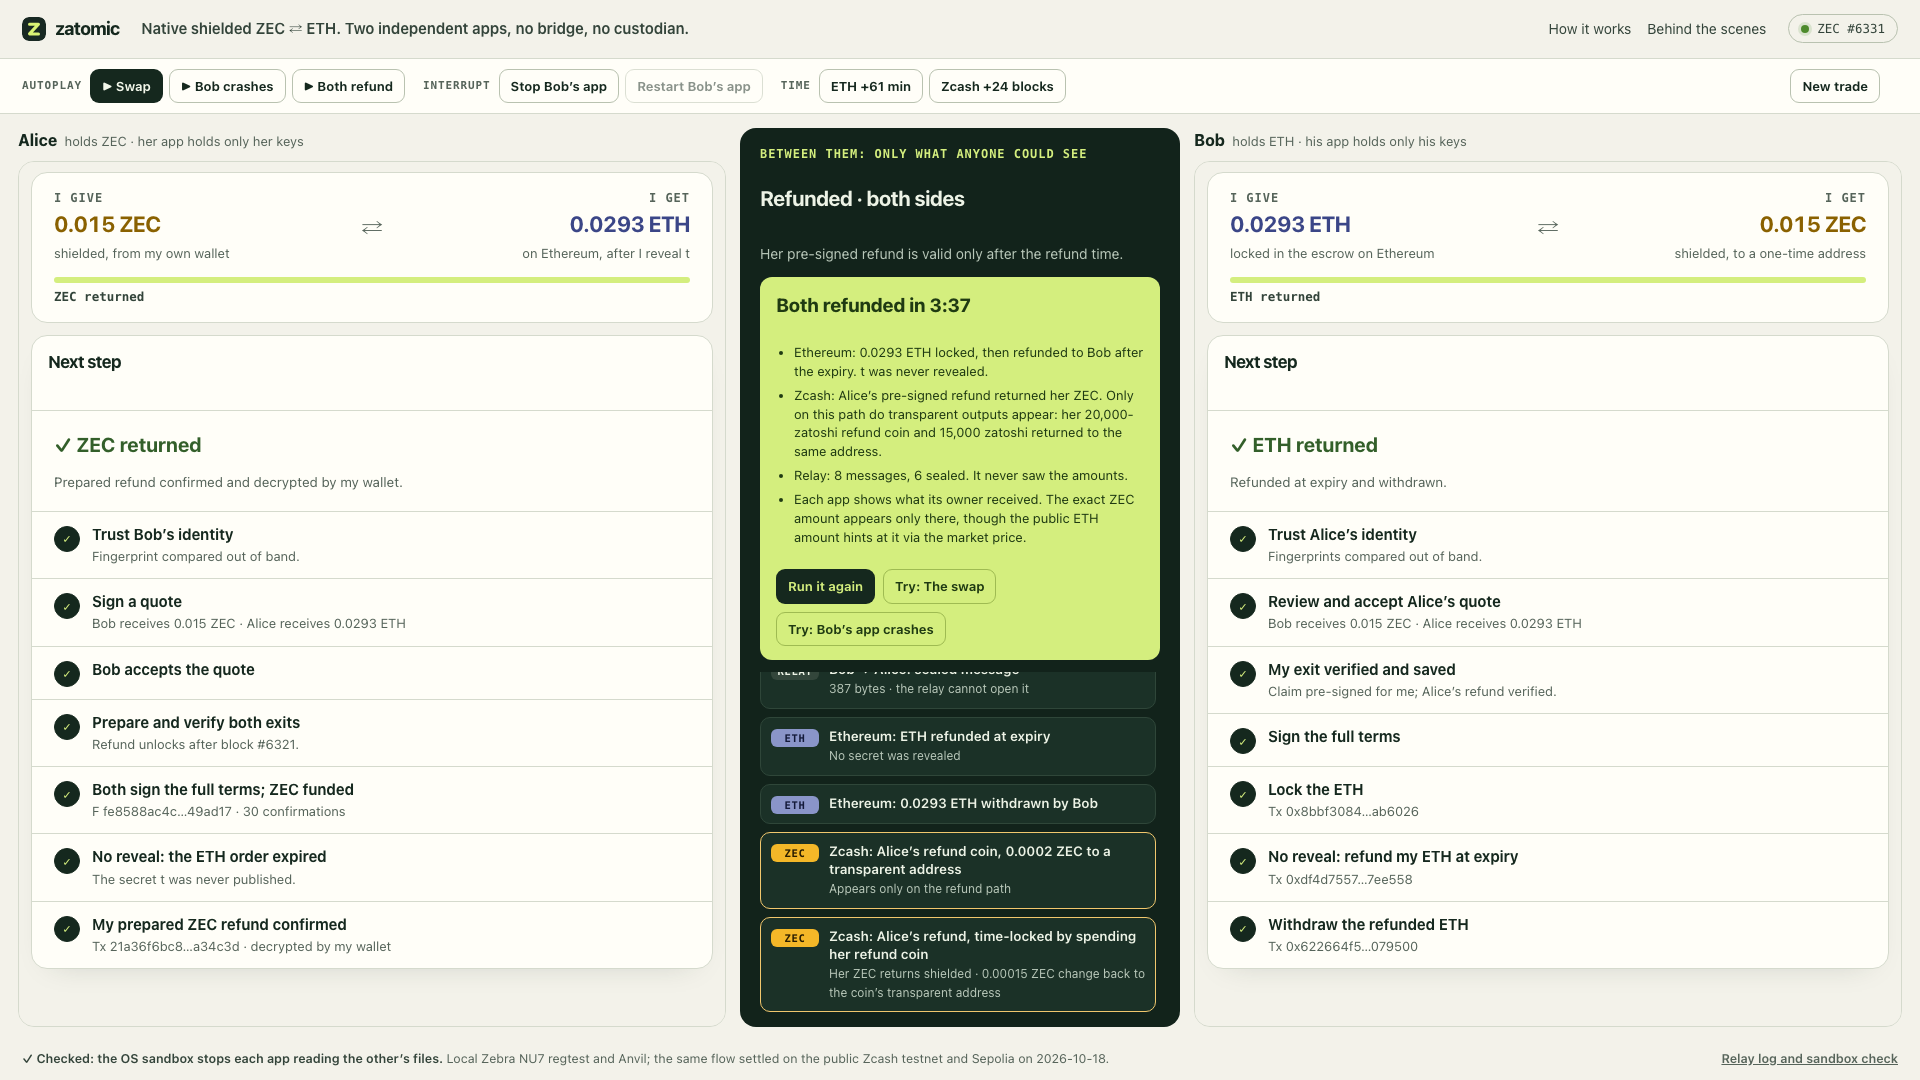
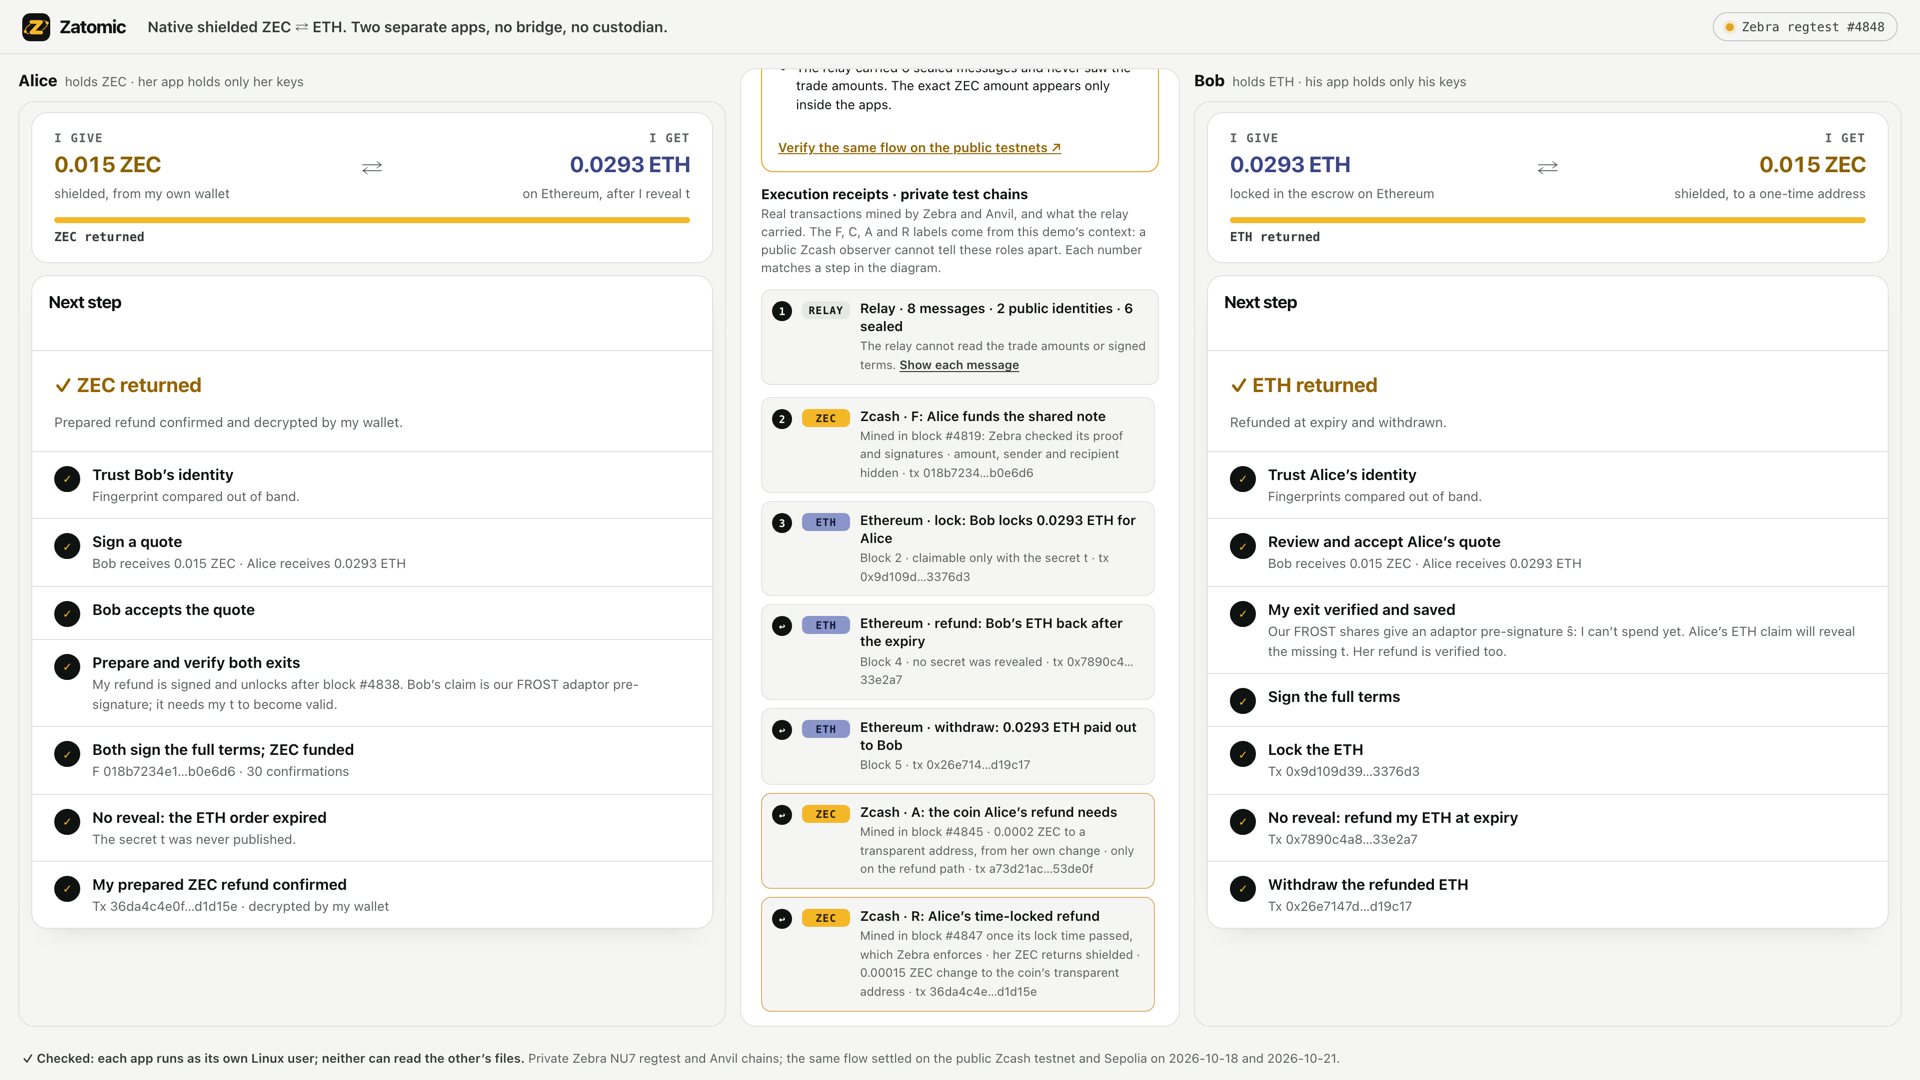
Demo guide: current screenshots and wording for scenarios, receipts and manual controls

Changed region(s): [[0.0, 0.0, 1.0, 1.0], [0.625, 0.0611, 0.75, 0.0917], [0.9062, 0.9778, 1.0, 1.0]]

diff --git a/docs/demo.md b/docs/demo.md
@@ -68,8 +68,8 @@ through the apps' own page endpoints, never touching either app's keys:
 While a scenario runs, the column shows its clock and the five-step diagram
 from the landing page, lit from public events only: done, under way, still to
 come, or the branch this trade did not take; Bob's lane says "stopped" while his
-app is down. Below it, **Public receipts** list what the relay and both chains
-recorded, each numbered with its diagram step: the relay's messages fold into
+app is down. Below it, **Execution receipts · private test chains** list what the
+relay and both chains recorded, each numbered with its diagram step: the relay's messages fold into
 one row (open it to see each), and every Zcash and Ethereum entry gives its
 block, what the node checked and its transaction ID. They follow protocol order,
 since observation times on two chains do not order them reliably. At the end
@@ -93,12 +93,13 @@ Measured on an Apple M1 with 16 GiB, each from a fresh trade: the swap took
 For recording, open **/stage?record**. It hides the control bar and page links,
 enlarges the narration, and is driven by keys: `1` `2` `3` scenarios, `N` new
 trade, `S` / `R` stop and restart Bob's app, `E` ETH time, `Z` Zcash blocks. The
-same keys work on the normal stage. The layout fits 1920×1080 and 1280×720
-without scrolling.
+same keys work on the normal stage. The layout fits 1920×1080 and 1280×720: the
+middle column scrolls to each new receipt by itself, and a finished run ends on
+the **Last run** card instead of the scenario picker.
 
 To run this on a rented server, see [Host it on a server](#host-it-on-a-server):
-each app then runs as its own Linux user, and one visitor at a time holds the
-controls.
+each app then runs as its own Linux user, any visitor can start a scenario while
+none is running, and operating the apps by hand goes to one visitor at a time.
 
 Autoplay types the agreed amounts and accepts the fingerprints shown on screen.
 The amounts are 0.015 ZEC for 0.0293 ETH, or proportionally smaller once the
@@ -128,16 +129,17 @@ they already trust.
 
 Scenarios 2 and 3 on the stage do both of these by themselves. By hand:
 
-- **Crash after the reveal.** After Alice claims, click *Stop Bob's app* on the
-  stage (or *Kill app (SIGKILL)* on the network page), then *Restart*. Bob's app rebuilds its state from its
+- **Crash after the reveal.** After Alice claims, open *Advanced controls* on the
+  stage and click *Stop Bob's app* (or *Kill app (SIGKILL)* on the network page),
+  then *Restart*. Bob's app rebuilds its state from its
   own files and the chains, and offers *Claim my ZEC* again. Alice can withdraw
   meanwhile; she never needs Bob online.
-- **No reveal.** Let Bob lock and Alice not claim. *ETH +61 min* stands in for
-  waiting. Bob refunds and withdraws. *Zcash +24
+- **No reveal.** Let Bob lock and Alice not claim. *ETH +61 min* (under
+  *Advanced controls*) stands in for waiting. Bob refunds and withdraws. *Zcash +24
   blocks* passes the native refund height, and Alice's prepared refund
   returns her ZEC.
 
-![Both refunded: Bob's ETH returned, Alice's ZEC returned, and the two transparent outputs the refund path adds](images/stage-refund.png)
+![Both refunded: Bob's ETH and Alice's ZEC returned, and the receipts show the refund path's coin A and her time-locked refund R](images/stage-refund.png)
 
 ## What this does and does not show
 
@@ -262,7 +264,7 @@ The apps' stdout and stderr go to `/var/lib/latch/net/<trade>/network/`.
 | App separation | a macOS `sandbox-exec` policy per app | a Unix user per app; the network cannot read either |
 | Zcash node | Zebra in Docker | `zebrad` as its own service; no Docker |
 | Reach | loopback only | HTTPS through Caddy; the servers still bind loopback and check Host and Origin |
-| Controls | anyone on the machine | one visitor at a time |
+| Controls | anyone on the machine | one scenario at a time for everyone; manual controls for one visitor at a time |
 
 **Not claimed:** all three roles run on one machine run by one operator. This is
 not independent administration, and the network process can start or stop

diff --git a/README.md b/README.md
@@ -130,7 +130,8 @@ processes, each holding only its own keys, on private test chains (Zebra
 regtest and Anvil): a swap, a crash right after the claim, or a refund, about two
 minutes each. Between the apps pass only pinned-TLS signing and a relay that sees
 two identity manifests and six sealed envelopes, never the amounts or the
-funding transaction. One visitor drives at a time; others watch the same trade.
+funding transaction. One scenario runs at a time; everyone else watches it live
+and can start the next one when it ends.
 To run it yourself, see [the demo guide](docs/demo.md).
 
 ## Public testnet runs
